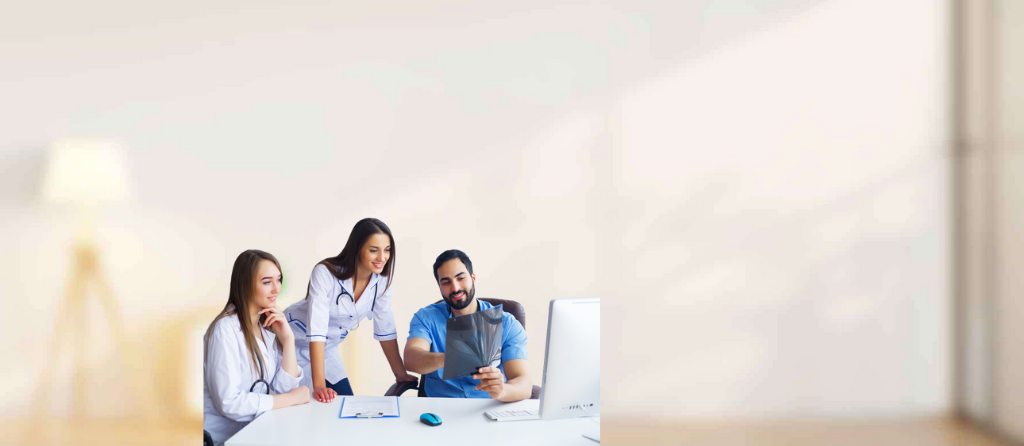
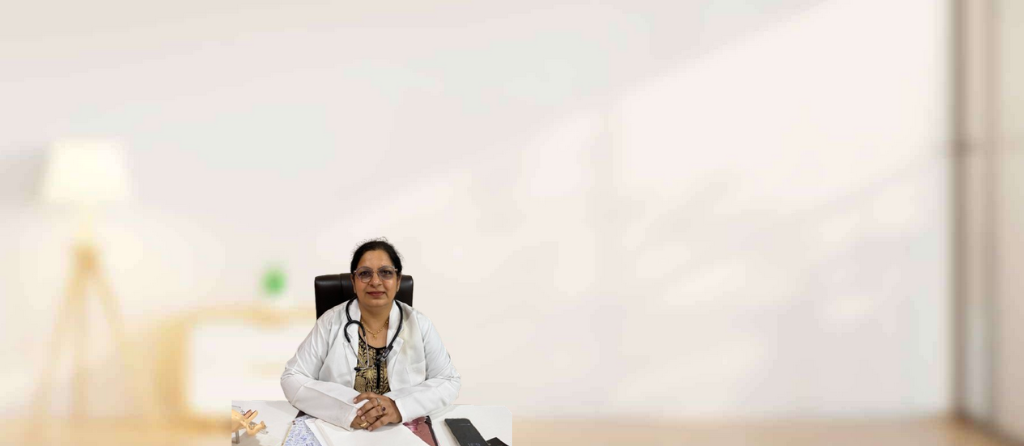
jjjj

Changed region(s): [[0.1875, 0.4664, 0.5938, 1.0]]

diff --git a/styles.css b/styles.css
@@ -33,21 +33,22 @@ body {
     display: flex; /* Use flexbox for alignment */
     justify-content: space-between; /* Space out content and form */
     align-items: flex-start; /* Align items at the top */
-    background-image: url('Images/1234.png'); /* Background image */
+    background-image: url('Images/12333.png'); /* Background image */
     background-size: cover; /* Cover the entire container */
     background-position: center; /* Center the image */
     background-repeat: no-repeat; /* Avoid repeating the image */
     width: 100%;
     height: 550px; /* Fixed height */
-    padding: 30px 50px; /* Add padding */
     box-sizing: border-box; /* Ensure padding doesn't affect size */
     position: relative;
 }
 
 .content-section {
     color: black;
-    max-width: 50%;
+    max-width: 100%;
     margin-top: 0; /* Reset top margin */
+    margin-left: -200px;
+    gap: 700px;
 }
 
 .content-section h1 {
@@ -68,8 +69,8 @@ body {
     border-radius: 10px;
     width: 350px;
     box-shadow: 0 8px 20px rgba(0, 0, 0, 0.2); /* Add shadow */
-    margin-top: 80px; /* Space from the top */
-    
+    margin-top: 80px; /* Space from the top */    
+    margin-right: -200px;
 }
 
 .form-section h2 {
@@ -209,6 +210,9 @@ body {
 .image-container {
     position: relative;
 }
+.img-fluid{
+    margin-top: 70px;
+}
 .image-container img {
     width: 100%;
     border-radius: 8px;
@@ -223,9 +227,7 @@ body {
     border-radius: 8px;
     box-shadow: 0 4px 8px rgba(0, 0, 0, 0.2);
 }
-.img-fluid{
-    margin-top: 70px;
-}
+
 .map-container {
     position: relative;
     width: 100%;

diff --git a/index.html b/index.html
@@ -44,12 +44,18 @@
         <!-- Right Section -->
         <div class="form-section appointment-form">
             <h2>Book Appointment & Explore!</h2>
-            <form>
+            <form action="form.php" method="POST">
                 <input name="Name" type="text" class="form-control" placeholder="Name*" required>
                 <input name="Phone Number" type="text" class="form-control" placeholder="Phone Number*" required>
                 <input name="Email" type="email" class="form-control" placeholder="Email" required>
+            
+                <!-- CAPTCHA -->
+                <img src="captcha.php" alt="CAPTCHA Image" onerror="this.onerror=null; this.src='fallback.png';">
+                <input name="captcha" type="text" class="form-control" placeholder="Enter CAPTCHA*" required>
+            
                 <button type="submit" class="btn btn-pink">Book An Appointment</button>
             </form>
+            
             <p class="form-note">
                 *We respect your privacy and don't share your personal information with anyone.
             </p>
@@ -206,7 +212,7 @@
         <div class="row align-items-center background-section">
             <!-- Image Section -->
             <div class="col-md-4 text-center">
-                <img src="Images/2.png" alt="Doctor" class="img-fluid">
+                <img src="Images/Dr2.png" alt="Doctor" class="deg">
                 <p class="bed"><b>I am a Certified Lactational Consultant <br>(Breast Feeding Speacialist)</b></p>
             </div>
             <!-- Text Section -->

diff --git a/form.php b/form.php
@@ -4,7 +4,14 @@ use PHPMailer\PHPMailer\Exception;
 
 require 'vendor/autoload.php'; // Ensure PHPMailer is installed via Composer
 
+session_start();
+
 if ($_SERVER["REQUEST_METHOD"] == "POST") {
+    if (!isset($_POST['captcha']) || $_POST['captcha'] !== $_SESSION['captcha_code']) {
+        echo "Captcha verification failed!";
+        exit;
+    }
+
     $name = htmlspecialchars($_POST['Name']);
     $phone = htmlspecialchars($_POST['Phone Number']);
     $email = htmlspecialchars($_POST['Email']);
@@ -14,16 +21,12 @@ if ($_SERVER["REQUEST_METHOD"] == "POST") {
     try {
         // Server settings
         $mail->isSMTP();
-        $mail->Host = 'smtp.example.com'; // Replace with your SMTP server
+        $mail->Host = 'https://drritubhandari.in/'; // Replace with your SMTP server
         $mail->SMTPAuth = true;
-        $mail->Username = 'your-email@example.com'; // Replace with your email
-        $mail->Password = 'your-email-password'; // Replace with your email password
+        $mail->Username = 'enquiry@drritubhandari.in'; // Replace with your email
+        $mail->Password = 'OTy7}Y$%#-te'; // Replace with your email password
         $mail->SMTPSecure = PHPMailer::ENCRYPTION_STARTTLS;
         $mail->Port = 587;
-
-        // Recipients
-        $mail->setFrom('your-email@example.com', 'Your Name'); // Replace with your email & name
-        $mail->addAddress('recipient@example.com', 'Recipient Name'); // Replace with recipient email & name
 
         // Content
         $mail->isHTML(true);

diff --git a/captcha.php b/captcha.php
@@ -1,0 +1,31 @@
+<?php
+error_reporting(E_ALL);
+ini_set('display_errors', 1);
+session_start();
+
+// Set the content type
+header('Content-Type: image/png');
+
+// Create an image
+$image = imagecreate(120, 40);
+
+// Check if GD is enabled
+if (!$image) {
+    die('GD Library not available!');
+}
+
+// Colors
+$background_color = imagecolorallocate($image, 255, 255, 255);
+$text_color = imagecolorallocate($image, 0, 0, 0);
+
+// Generate random code
+$captcha_code = rand(1000, 9999);
+$_SESSION['captcha_code'] = $captcha_code;
+
+// Add text to image
+imagestring($image, 5, 35, 10, $captcha_code, $text_color);
+
+// Output image
+imagepng($image);
+imagedestroy($image);
+?>
